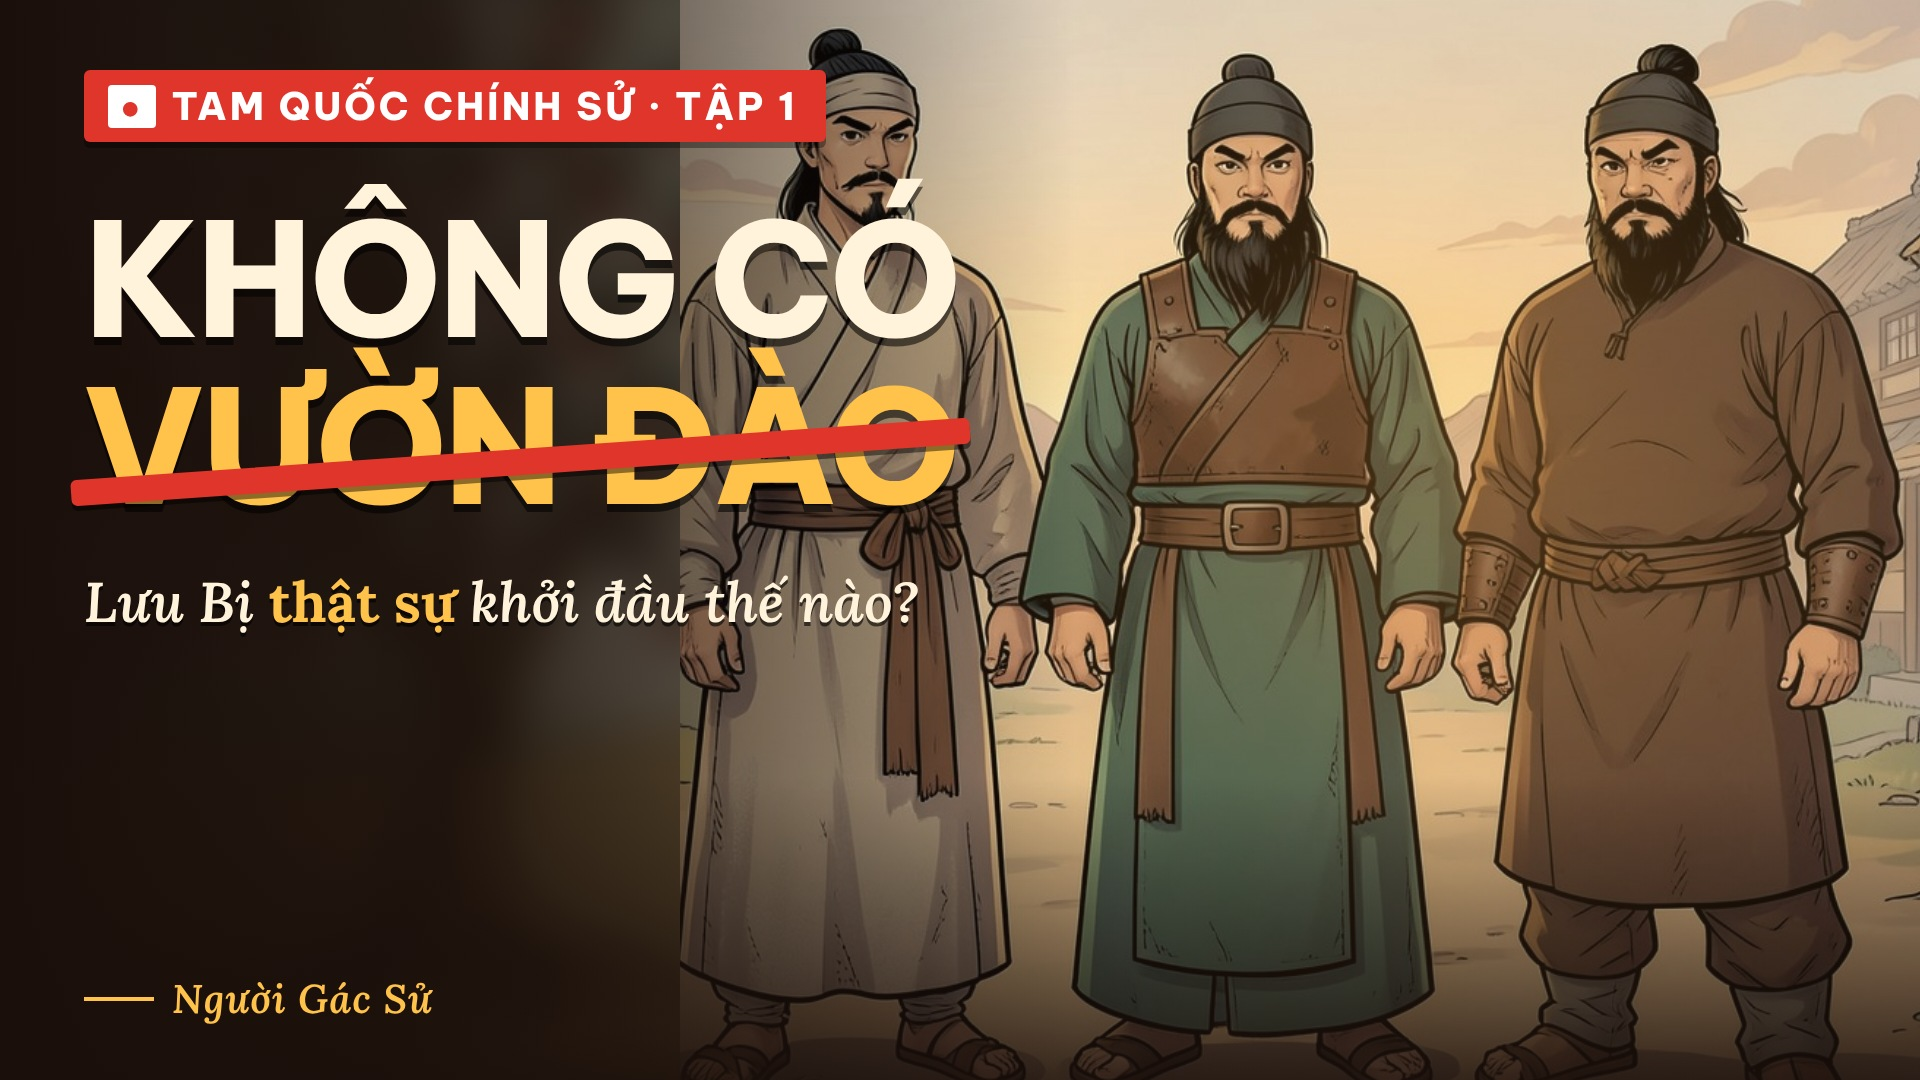
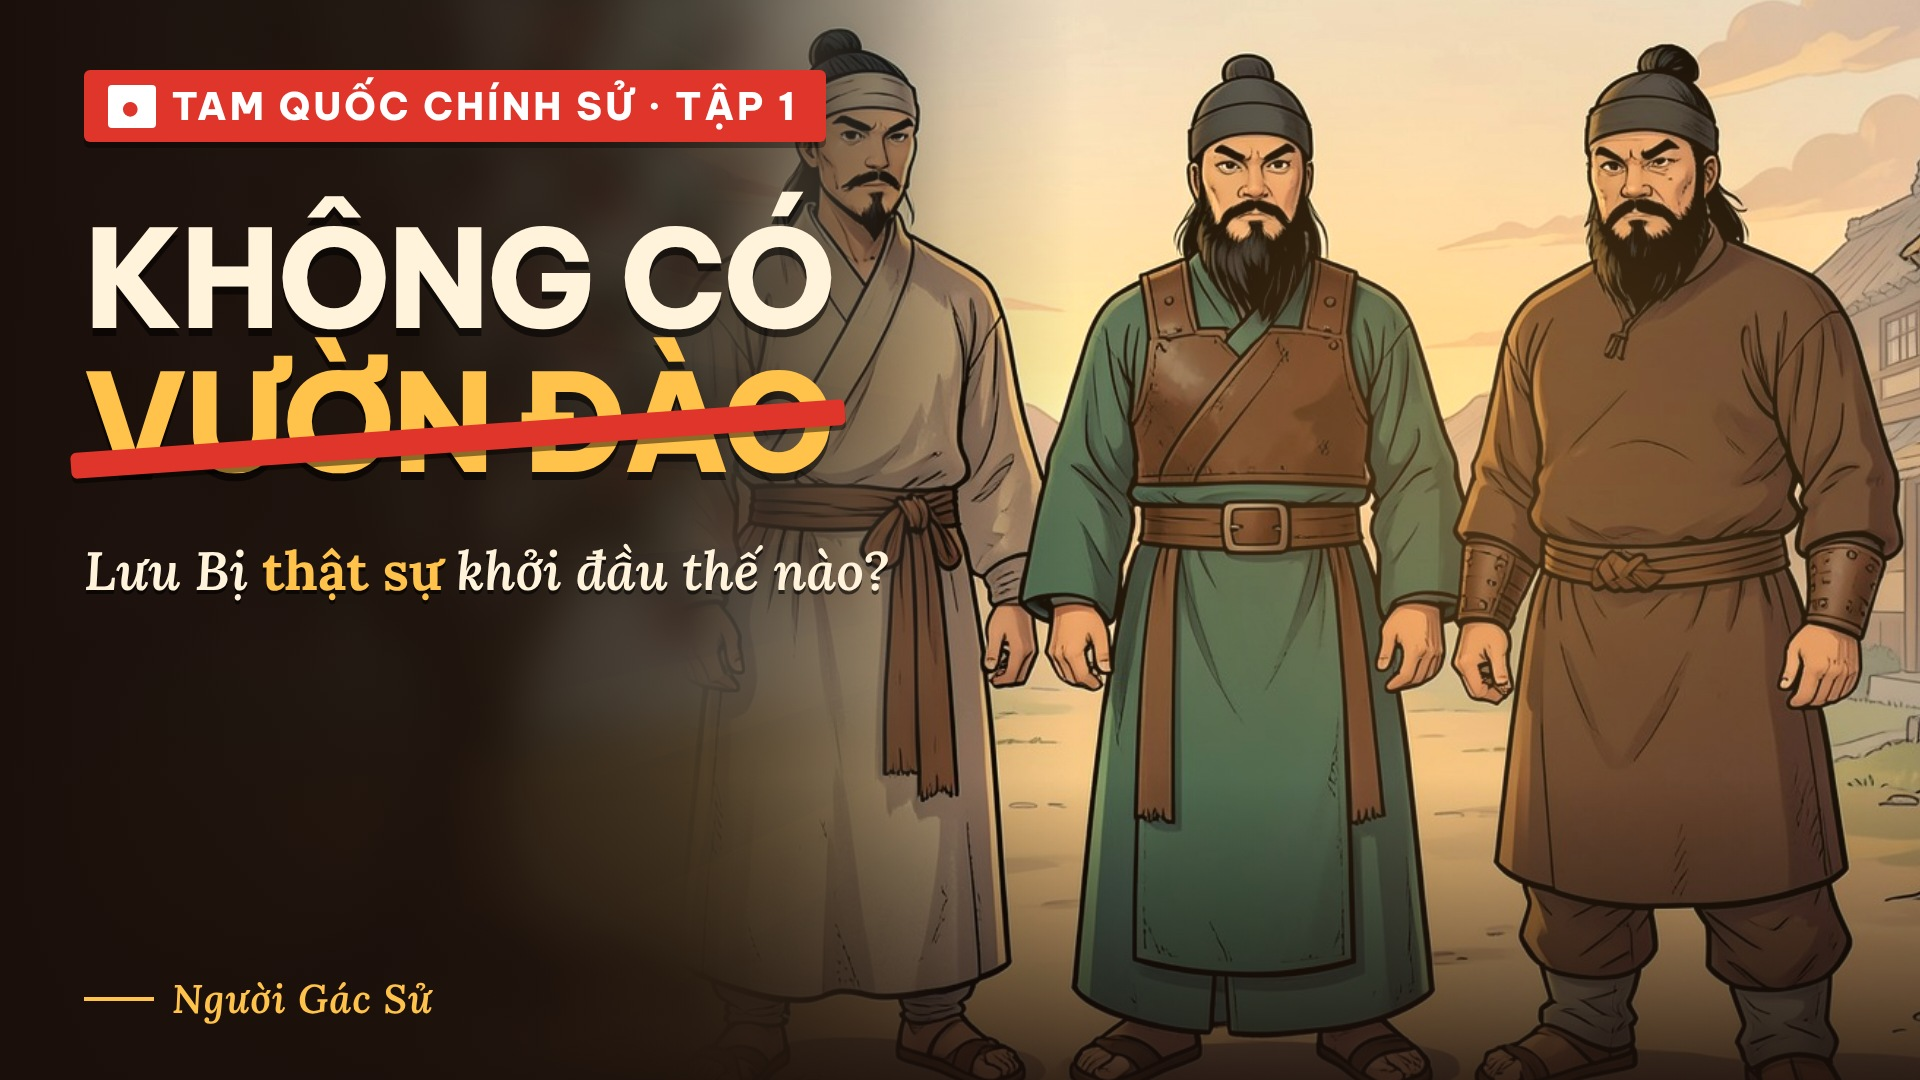
Bìa mới (dài + ngắn dọc), gán 30 ảnh mới vào kịch bản TQ1, gửi bìa ngắn

Changed region(s): [[0.0312, 0.1222, 0.5, 0.8556], [0.3438, 0.0, 0.4375, 0.0917]]

diff --git a/templates/bia.html b/templates/bia.html
@@ -12,27 +12,40 @@
 *{box-sizing:border-box;margin:0}
 html,body{width:1920px;height:1080px;overflow:hidden;background:var(--bg);font-family:'Be Vietnam Pro',sans-serif}
 #bg{position:absolute;inset:-40px;background-size:cover;background-position:center;filter:blur(26px) saturate(1.4) brightness(.55)}
-#hero{position:absolute;top:0;right:0;width:1240px;height:1080px;background-size:auto 104%;background-position:58% 70%}
+#rays{position:absolute;inset:0;background:repeating-conic-gradient(from 0deg at 76% 46%,rgba(255,190,80,.16) 0deg 6deg,rgba(255,190,80,0) 6deg 14deg);-webkit-mask-image:radial-gradient(circle at 76% 46%,#000,transparent 70%);mask-image:radial-gradient(circle at 76% 46%,#000,transparent 70%)}
+#hero{position:absolute;top:0;right:0;width:1240px;height:1080px;background-size:auto 104%;background-position:58% 70%;filter:saturate(1.22) contrast(1.06) brightness(1.04);-webkit-mask-image:linear-gradient(90deg,transparent 0,#000 22%);mask-image:linear-gradient(90deg,transparent 0,#000 22%)}
 #fade{position:absolute;inset:0;background:linear-gradient(90deg,rgba(26,15,10,1) 0%,rgba(26,15,10,.9) 20%,rgba(26,15,10,.45) 38%,rgba(26,15,10,0) 56%),linear-gradient(0deg,rgba(26,15,10,.85) 0%,rgba(26,15,10,0) 28%)}
 #glow{position:absolute;inset:0;background:radial-gradient(circle at 78% 42%,rgba(255,170,70,.30),rgba(255,170,70,0) 45%)}
 #badge{position:absolute;left:84px;top:70px;display:flex;align-items:center;gap:16px;background:var(--red);color:#fff;font-weight:800;font-size:38px;letter-spacing:3px;padding:12px 28px 12px 24px;border-radius:6px;box-shadow:0 6px 0 rgba(0,0,0,.35)}
 #badge i{font-style:normal;background:#fff;color:var(--red);border-radius:4px;padding:0 12px;font-size:34px}
-#txt{position:absolute;left:84px;top:200px;width:1100px}
-.l1{font-weight:800;font-size:158px;line-height:1;white-space:nowrap;color:var(--cream);letter-spacing:-3px;text-shadow:0 8px 0 rgba(0,0,0,.55)}
-.l2{position:relative;display:inline-block;font-weight:800;font-size:158px;line-height:1.04;white-space:nowrap;color:var(--gold);letter-spacing:-3px;text-shadow:0 8px 0 rgba(0,0,0,.55);margin-top:6px}
+#txt{position:absolute;left:84px;top:210px;width:900px}
+.l1{font-weight:800;font-size:136px;line-height:1;white-space:nowrap;color:var(--cream);letter-spacing:-3px;text-shadow:0 8px 0 rgba(0,0,0,.55)}
+.l2{position:relative;display:inline-block;font-weight:800;font-size:136px;line-height:1.04;white-space:nowrap;color:var(--gold);letter-spacing:-3px;text-shadow:0 8px 0 rgba(0,0,0,.55);margin-top:6px}
 .l2.strike::after{content:"";position:absolute;left:-14px;right:-14px;top:52%;height:26px;background:var(--red);transform:rotate(-4deg);border-radius:6px;box-shadow:0 5px 0 rgba(0,0,0,.45)}
-.l3{margin-top:40px;font-family:'Lora',serif;font-style:italic;font-weight:600;font-size:56px;line-height:1.2;color:var(--cream);text-shadow:0 4px 0 rgba(0,0,0,.6);max-width:1000px;white-space:nowrap}
+.l3{margin-top:44px;font-family:'Lora',serif;font-style:italic;font-weight:600;font-size:54px;line-height:1.25;color:var(--cream);text-shadow:0 4px 0 rgba(0,0,0,.6);white-space:nowrap}
 .l3 b{color:var(--gold);font-style:normal;font-weight:700}
 #brand{position:absolute;left:84px;bottom:56px;font-family:'Lora',serif;font-style:italic;font-weight:600;font-size:40px;color:var(--gold);letter-spacing:1px;display:flex;align-items:center;gap:18px}
 #brand::before{content:"";width:70px;height:4px;background:var(--gold)}
 #frame{position:absolute;inset:0;border:14px solid rgba(255,194,74,.0)}
-body.center #hero{width:1920px;background-position:50% 32%;background-size:auto 108%;opacity:.95}
+body.center #hero{-webkit-mask-image:none;mask-image:none;width:1920px;background-position:50% 32%;background-size:auto 108%;opacity:.95}
 body.center #fade{background:linear-gradient(90deg,rgba(26,15,10,.1) 0%,rgba(26,15,10,.8) 30%,rgba(26,15,10,.8) 70%,rgba(26,15,10,.1) 100%)}
 body.center #txt{left:560px;width:800px;top:230px;text-align:center}
 body.center .l1{font-size:118px}body.center .l2{font-size:118px}body.center .l3{font-size:48px;max-width:800px;margin-left:auto;margin-right:auto}
 body.center #badge{left:560px;font-size:30px;top:90px}body.center #brand{left:560px;bottom:70px}
+body.v,body.v html{width:1080px;height:1920px}
+html:has(body.v){width:1080px;height:1920px}
+body.v{width:1080px;height:1920px}
+body.v #rays{background:repeating-conic-gradient(from 0deg at 50% 36%,rgba(255,190,80,.2) 0deg 6deg,rgba(255,190,80,0) 6deg 14deg);-webkit-mask-image:radial-gradient(circle at 50% 36%,#000,transparent 72%);mask-image:radial-gradient(circle at 50% 36%,#000,transparent 72%)}
+body.v #hero{-webkit-mask-image:none;mask-image:none;left:0;right:auto;top:150px;width:1080px;height:1000px;background-size:auto 100%;background-position:55% 40%}
+body.v #fade{background:linear-gradient(0deg,rgba(26,15,10,1) 0%,rgba(26,15,10,.96) 30%,rgba(26,15,10,0) 52%),linear-gradient(180deg,rgba(26,15,10,.9) 0%,rgba(26,15,10,0) 14%)}
+body.v #glow{background:radial-gradient(circle at 50% 36%,rgba(255,170,70,.3),rgba(255,170,70,0) 50%)}
+body.v #badge{left:50%;transform:translateX(-50%);top:70px;font-size:36px;white-space:nowrap}
+body.v #txt{left:0;width:1080px;top:1180px;text-align:center}
+body.v .l1,body.v .l2{font-size:150px}
+body.v .l3{font-size:60px;margin:46px auto 0;max-width:960px;white-space:normal}
+body.v #brand{left:50%;transform:translateX(-50%);bottom:70px}
 </style></head><body>
-<div id="bg"></div><div id="hero"></div><div id="glow"></div><div id="fade"></div>
+<div id="bg"></div><div id="rays"></div><div id="hero"></div><div id="glow"></div><div id="fade"></div>
 <div id="badge"><i>●</i><span id="bd"></span></div>
 <div id="txt"><div class="l1" id="a"></div><div class="l2 strike" id="b"></div><div class="l3" id="c"></div></div>
 <div id="brand" id="br"></div>
@@ -46,6 +59,7 @@ window.setup = function (o) {
   document.getElementById('c').innerHTML = o.dong3;
   document.getElementById('brand').textContent = o.kenh;
   if (o.mode === 'center') document.body.classList.add('center');
+  if (o.mode === 'v') document.body.classList.add('v');
   return Promise.all([o.nen, o.anh].map(s => new Promise(r => { const i = new Image(); i.onload = i.onerror = r; i.src = s; }))).then(() => document.fonts.ready);
 };
 </script></body></html>

diff --git a/ke-hoach/nhan-vat/tao_TQ1_script.py b/ke-hoach/nhan-vat/tao_TQ1_script.py
@@ -119,6 +119,19 @@ CLIPS = {"001","003","005","006","011","015","022","031","037","040","043","044"
 def img(k):
     return f"assets/anh_2d/TQ1/{k}.jpg"
 
+# ảnh mới (047-076) gán cho các câu trước đây phải dùng chung ảnh; khóa = số thứ tự câu (từ 0)
+NEW_IMG = {7:"047",9:"048",11:"049",16:"050",20:"051",22:"052",23:"053",26:"054",28:"055",29:"056",32:"057",33:"058",39:"059",
+           46:"060",52:"061",53:"062",55:"063",57:"064",58:"065",59:"066",62:"067",63:"068",65:"069",67:"070",68:"071",
+           69:"072",70:"073",71:"074",74:"075",75:"076"}
+_n = 0
+_CH3 = []
+for _title, _bs in CH:
+    _nb = []
+    for _t, _k in _bs:
+        _nb.append((_t, NEW_IMG.get(_n, _k))); _n += 1
+    _CH3.append((_title, _nb))
+CH = _CH3
+
 # KHÔNG LẶP ẢNH: mỗi ảnh chỉ xuất hiện đúng một lần. Câu nào trùng ảnh đã dùng (không liền kề) thì giữ ảnh của câu liền trước
 # (cảnh kéo dài, máy quay lướt chậm), clip chuyển động chỉ gắn ở lần đầu.
 _seen, _prev = set(), None

diff --git a/bia_dai.py b/bia_dai.py
@@ -31,6 +31,17 @@ def main():
             page.wait_for_timeout(400)
             page.screenshot(path=str(out / name), type="jpeg", quality=93)
             print("ok", out / name)
+        # ảnh bìa video ngắn (dọc 9:16)
+        page = br.new_page(viewport={"width": 1080, "height": 1920})
+        sb = script.get("ngan", {}).get("bia") or b
+        page.goto((ROOT / "templates" / "bia.html").as_uri())
+        o = {"nen": (ROOT / sb["nen"]).as_uri(), "anh": (ROOT / sb["anh"]).as_uri(), "huy_hieu": sb["huy_hieu"],
+             "dong1": sb["dong1"], "dong2": sb["dong2"], "gach": sb.get("gach", False), "dong3": sb["dong3"],
+             "kenh": cfg.get("channel", ""), "mode": "v"}
+        page.evaluate("o => window.setup(o)", o)
+        page.wait_for_timeout(400)
+        page.screenshot(path=str(out / f"{sid}_thumbnail.jpg"), type="jpeg", quality=93)
+        print("ok", out / f"{sid}_thumbnail.jpg")
         br.close()
 
 
